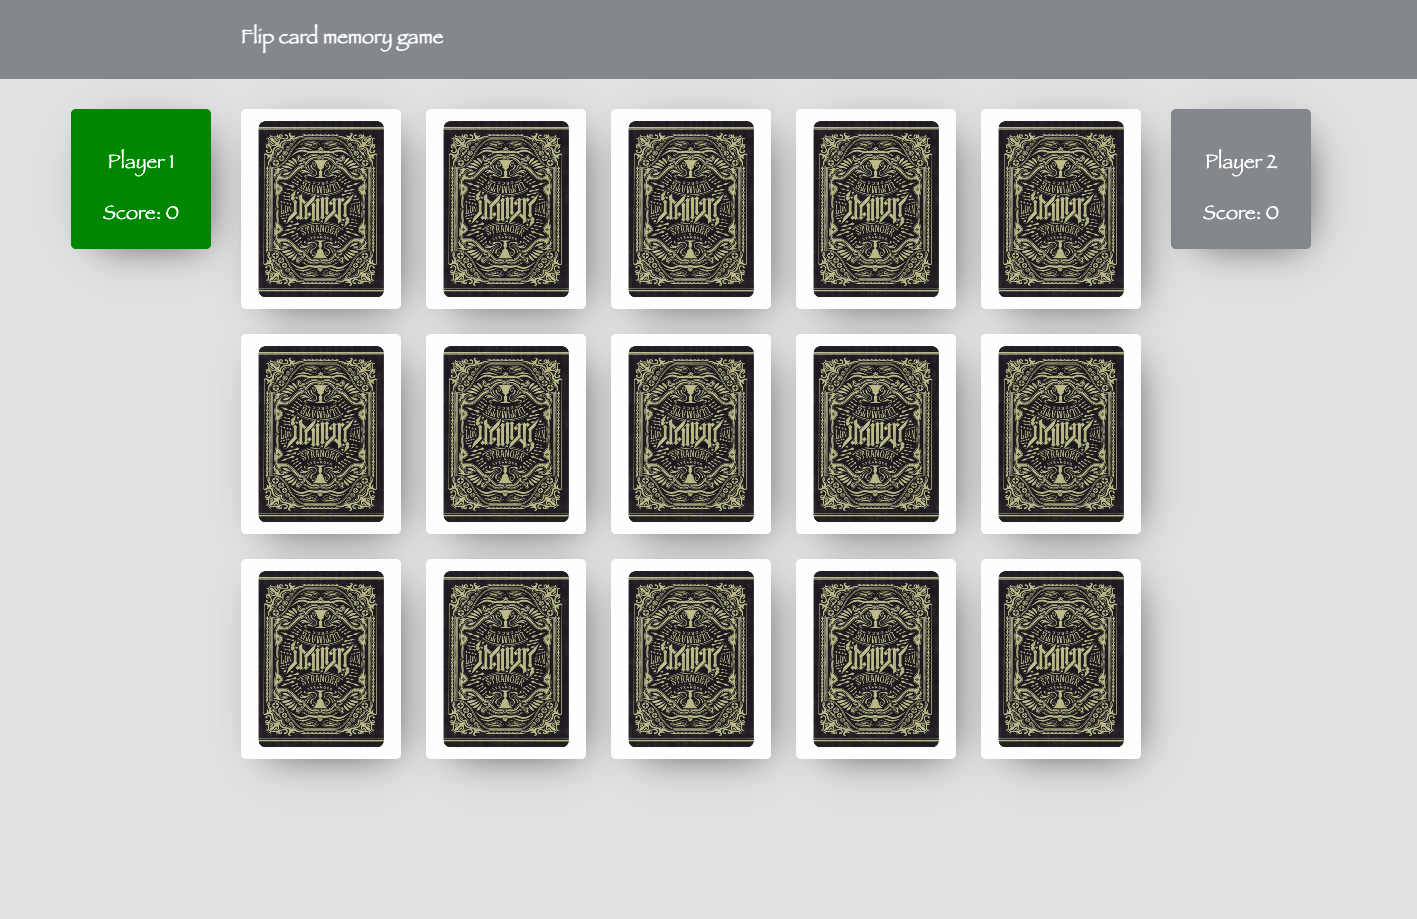
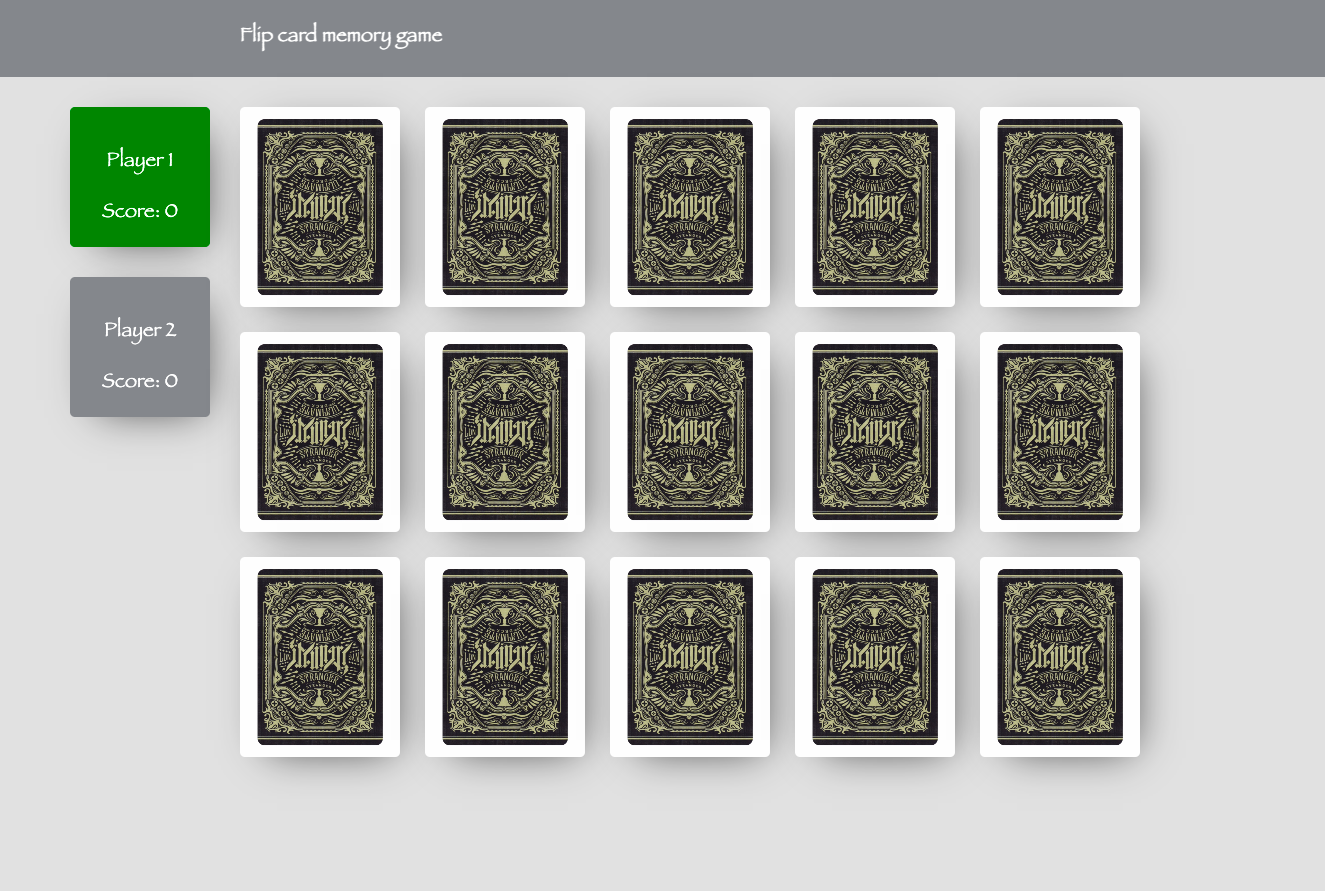
responsive designs

diff --git a/src/app/app.component.html b/src/app/app.component.html
@@ -16,12 +16,19 @@
 <div>
   <app-header></app-header>
   <div class="content-wrap" *ngIf="!showPlayerModal">
-    <div>
+    <div class="score-container">
       <app-score-card
         [ngClass]="{ hidden: isSinglePlayer }"
         [isSelected]="isPlayer1"
         playerName="Player 1"
         [score]="player1Score"
+      ></app-score-card>
+
+      <app-score-card
+        [ngClass]="{ hidden: isSinglePlayer }"
+        [isSelected]="!isPlayer1"
+        playerName="Player 2"
+        [score]="player2Score"
       ></app-score-card>
     </div>
     <div class="grid">
@@ -33,12 +40,7 @@
         [allowFlip]="flippedCards.length < 2"
       ></app-display-card>
     </div>
-    <app-score-card
-      [ngClass]="{ hidden: isSinglePlayer }"
-      [isSelected]="!isPlayer1"
-      playerName="Player 2"
-      [score]="player2Score"
-    ></app-score-card>
+    <div></div>
   </div>
 </div>
 

diff --git a/src/app/app.component.scss b/src/app/app.component.scss
@@ -2,12 +2,31 @@
   display: flex;
   max-width: 1300px;
   margin: 0 auto;
+
+  @media (max-width: 600px) {
+    display: block;
+    .hidden {
+      display: none;
+    }
+    .score-container {
+      display: flex;
+    }
+  }
+
   .grid {
     display: grid;
     grid-template-columns: repeat(5, 160px);
     gap: 25px;
     margin-top: 30px;
     justify-content: center;
+
+    @media (max-width: 600px) and (min-width: 400px) {
+      grid-template-columns: repeat(3, 150px);
+    }
+
+    @media (max-width: 399px) {
+      grid-template-columns: repeat(2, 150px);
+    }
   }
 }
 

diff --git a/src/app/components/score-card/score-card.component.scss b/src/app/components/score-card/score-card.component.scss
@@ -9,6 +9,10 @@
   border-radius: 5px;
   margin: 30px;
   box-shadow: 10px 10px 43px -18px rgba(0, 0, 0, 0.75);
+
+  @media (max-width: 600px) {
+    margin: 24px;
+  }
 }
 
 .selected {
